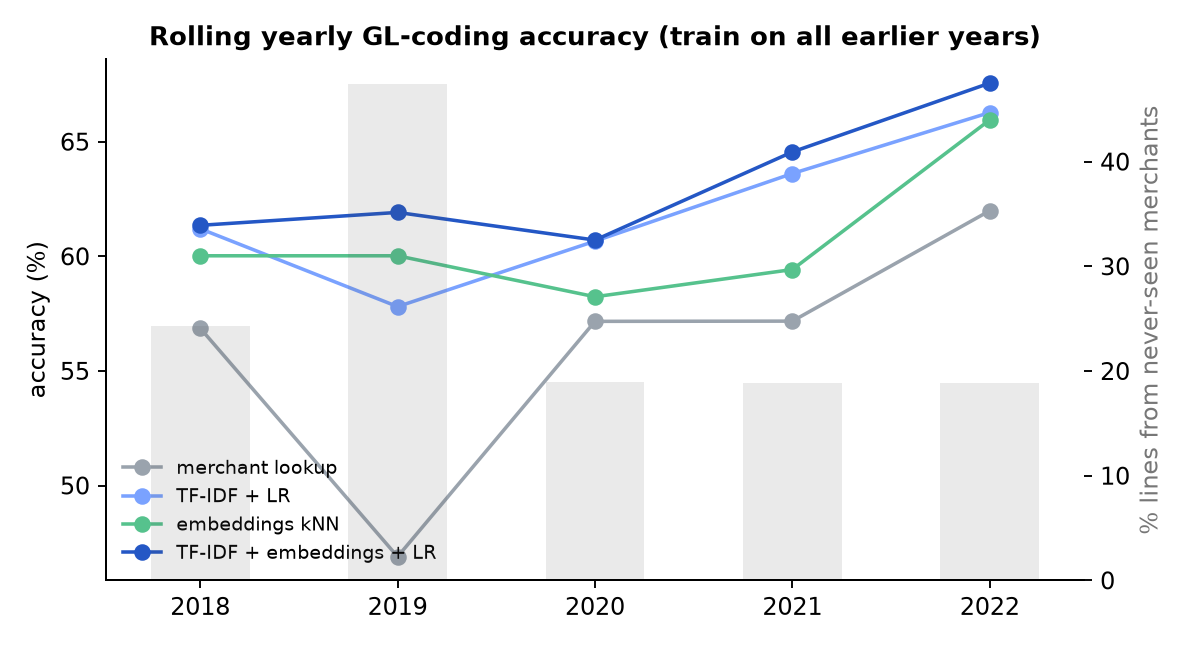
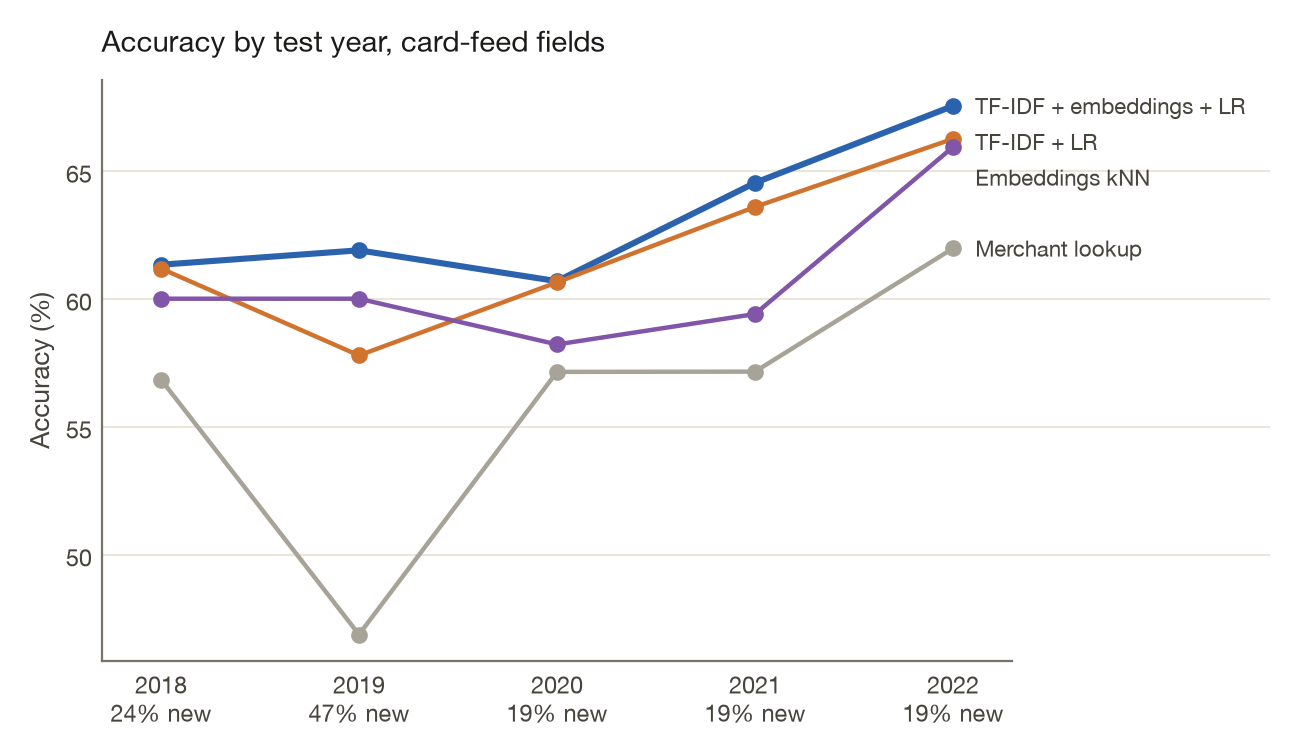
Restyle charts to match the project pages
One shared chart style (chartstyle.py): sans labels like the page tables, plain
left-aligned titles, a light horizontal grid, direct labels where lines end, and a
four-colour set that passes a colour-blind separation check. Charts regenerated
from the committed results; no numbers changed.

diff --git a/site/index.html b/site/index.html
@@ -66,8 +66,8 @@ error broke it in 10/10 seeds.</li>
 platform sees: the merchant string, the cardholder's department and service, and the amount.</p>
 <div class="tbl wide"><p class=cap><b>Table 1.</b> Ledger-account accuracy from card-feed fields, 11,756 test lines.</p><div class=scroll><table><thead><tr><th>Model (card-feed signals only)</th><th class=n>Accuracy</th><th class=n>95% CI</th><th class=n>Top-3</th><th class=n>Accuracy on new merchants</th><th class=n>Macro-F1</th></tr></thead><tbody><tr><td>Majority class</td><td class=n>17.0%</td><td class=n>16.3%–17.6%</td><td class=n>–</td><td class=n>11.4%</td><td class=n>0.019</td></tr><tr><td>Merchant → account lookup</td><td class=n>54.5%</td><td class=n>53.6%–55.4%</td><td class=n>–</td><td class=n>15.8%</td><td class=n>0.313</td></tr><tr><td>Local embeddings, kNN</td><td class=n>60.1%</td><td class=n>59.2%–61.0%</td><td class=n>78.4%</td><td class=n>37.3%</td><td class=n>0.339</td></tr><tr><td>Char TF-IDF + logistic regression</td><td class=n>60.9%</td><td class=n>60.0%–61.8%</td><td class=n>80.7%</td><td class=n>34.6%</td><td class=n>0.354</td></tr><tr><td>Local embeddings + logistic regression</td><td class=n>61.3%</td><td class=n>60.4%–62.2%</td><td class=n>82.5%</td><td class=n>38.9%</td><td class=n>0.366</td></tr><tr><td><strong>TF-IDF + embeddings + logistic regression</strong></td><td class=n>62.4%</td><td class=n>61.5%–63.3%</td><td class=n>82.9%</td><td class=n>40.7%</td><td class=n>0.379</td></tr></tbody></table></div></div>
 <figure class=narrow><img src="accuracy_by_year.png" alt="Accuracy by test year for four models, 2018 to 2022; the combined model is highest in every year.">
-<figcaption><b>Figure 1.</b> Accuracy by test year. Grey bars, on the right-hand scale, are the share of lines from merchants the
-model had never seen.</figcaption></figure>
+<figcaption><b>Figure 1.</b> Accuracy by test year. Under each year is the share of lines from merchants the model had
+never seen.</figcaption></figure>
 
 <h2>The gate on real data, month by month</h2>
 <p>The agent then ran live for the final 20 months (3,826 lines). Each month it was refit on earlier data,
@@ -85,8 +85,6 @@ very high; with the upstream category it falls under budget much sooner.</figcap
 <p>Expense-policy decisions (approve, reject or send for review, citing the policy section) have no public labels, so this part
 uses a documented generator with planted ground truth. Every assumption in it is varied in Table 5.</p>
 <div class="tbl wide"><p class=cap><b>Table 3.</b> Live months, mean ± standard deviation across seeds, 1% error budget.</p><div class=scroll><table><thead><tr><th>Autonomy policy (mean ± sd over 10 seeds)</th><th class=n>Auto-actioned</th><th class=n>Error on auto-actions</th><th class=n>Seeds over the 1% budget</th><th class=n>Policy leakage</th><th class=n>Total cost</th></tr></thead><tbody><tr><td>Trust the rules engine everywhere</td><td class=n>88.7% ± 0.5%</td><td class=n>5.36% ± 0.37%</td><td class=n>10/10</td><td class=n>$24,270 ± $4,382</td><td class=n>$30,542</td></tr><tr><td>Thresholds learned from reviewer history</td><td class=n>80.4% ± 1.6%</td><td class=n>0.97% ± 0.38%</td><td class=n>6/10</td><td class=n>$6,612 ± $3,529</td><td class=n>$10,475</td></tr><tr><td>Audited gold, point-estimate threshold</td><td class=n>84.7% ± 0.7%</td><td class=n>1.44% ± 0.23%</td><td class=n>10/10</td><td class=n>$11,087 ± $2,772</td><td class=n>$14,197</td></tr><tr><td>+ Wilson upper bound</td><td class=n>75.1% ± 8.7%</td><td class=n>0.68% ± 0.31%</td><td class=n>2/10</td><td class=n>$4,055 ± $2,274</td><td class=n>$8,985</td></tr><tr><td>+ novelty guard</td><td class=n>71.8% ± 7.3%</td><td class=n>0.45% ± 0.14%</td><td class=n>0/10</td><td class=n>$3,955 ± $1,697</td><td class=n>$9,513</td></tr><tr><td><strong>+ value tiers = earned autonomy</strong></td><td class=n>62.3% ± 11.1%</td><td class=n>0.45% ± 0.13%</td><td class=n>0/10</td><td class=n>$1,415 ± $693</td><td class=n>$8,866</td></tr></tbody></table></div></div>
-<figure class=wide><img src="rollout_by_month.png" alt="One simulated run: share of transactions auto-actioned and realised error per month for four policies.">
-<figcaption><b>Figure 4.</b> One simulated run. Policies without an upper bound auto-action more and cross the dashed 1% budget.</figcaption></figure>
 <div class="tbl wide"><p class=cap><b>Table 4.</b> Dropping one safeguard at a time.</p><div class=scroll><table><thead><tr><th>Ablation (drop one safeguard)</th><th class=n>Auto-actioned</th><th class=n>Error on auto-actions</th><th class=n>Policy leakage</th></tr></thead><tbody><tr><td>Full policy</td><td class=n>62.3%</td><td class=n>0.45%</td><td class=n>$1,415</td></tr><tr><td>− Wilson bound (point estimate)</td><td class=n>77.3%</td><td class=n>0.69%</td><td class=n>$4,516</td></tr><tr><td>− novelty guard</td><td class=n>65.7%</td><td class=n>0.72%</td><td class=n>$2,387</td></tr><tr><td>− value tiers</td><td class=n>71.8%</td><td class=n>0.45%</td><td class=n>$3,955</td></tr></tbody></table></div></div>
 <div class="tbl wide"><p class=cap><b>Table 5.</b> Does the conclusion survive changing the generator's assumptions?</p><div class=scroll><table><thead><tr><th>Assumption varied</th><th>Values</th><th class=n>Earned autonomy within budget</th><th class=n>Point estimate within budget</th></tr></thead><tbody><tr><td>Reviewer leniency</td><td>0.0, 0.03, 0.06, 0.1, 0.15</td><td class=n>5/5</td><td class=n>0/5</td></tr><tr><td>Memo drift rate</td><td>0.0, 0.15, 0.35, 0.5</td><td class=n>4/4</td><td class=n>1/4</td></tr><tr><td>Audits per month</td><td>100, 250, 500, 1000</td><td class=n>4/4</td><td class=n>0/4</td></tr><tr><td>Error budget</td><td>0.005, 0.01, 0.02</td><td class=n>3/3</td><td class=n>1/3</td></tr></tbody></table></div></div>
 

diff --git a/src/trustgate/realcharts.py b/src/trustgate/realcharts.py
@@ -4,13 +4,11 @@ from __future__ import annotations
 
 import json
 
-import matplotlib
+import matplotlib.pyplot as plt
+import numpy as np
 
-matplotlib.use("Agg")
-import matplotlib.pyplot as plt  # noqa: E402
-import numpy as np  # noqa: E402
-
-from .paths import RESULTS  # noqa: E402
+from . import chartstyle as cs
+from .paths import RESULTS
 
 POL = [
     ("auto_all", "Auto-post\neverything"),
@@ -19,24 +17,17 @@ POL = [
     ("wilson+novelty", "+ novelty\nguard"),
     ("wilson+novelty+tiers", "+ value tiers\n(earned)"),
 ]
-BLUE, GREY, RED = "#2457c5", "#9aa3ad", "#b4372f"
-
-
-def _style() -> None:
-    plt.rcParams.update(
-        {"font.size": 10, "axes.spines.top": False, "axes.spines.right": False, "axes.titleweight": "bold", "axes.titlesize": 11}
-    )
 
 
 def hero(auto: dict, budget: str = "0.02") -> None:
     """Same gate, two outcomes: automation granted and realised error, card-feed vs upstream."""
-    _style()
-    fig, axes = plt.subplots(1, 2, figsize=(11, 4.2), sharey=False)
+    cs.apply()
+    fig, axes = plt.subplots(1, 2, figsize=(10.5, 4), sharey=True)
     for ax, (setting, title) in zip(
         axes,
         [
-            ("card_feed", "Card-feed signals only (model ≈ {acc} accurate)"),
-            ("upstream", "With upstream procurement category (model ≈ {acc})"),
+            ("card_feed", "Card-feed fields only (model {acc} accurate)"),
+            ("upstream", "With the upstream procurement category (model {acc})"),
         ],
         strict=True,
     ):
@@ -46,64 +37,77 @@ def hero(auto: dict, budget: str = "0.02") -> None:
         autos = [b[p]["automation_rate"] * 100 for p, _ in POL]
         errs = [b[p]["auto_error_rate"] * 100 for p, _ in POL]
         over = [b[p]["months_over_budget"] for p, _ in POL]
-        bars = ax.bar(x, autos, color=[RED if o > 0 else BLUE for o in over], width=0.62)
+        bars = ax.bar(x, autos, color=[cs.FLAG if o > 0 else cs.BLUE for o in over], width=0.56)
         for xi, bar, e, o in zip(x, bars, errs, over, strict=True):
-            label = "no autonomy\ngranted" if bar.get_height() == 0 else f"{e:.1f}% err\n{o}/{s['live_months']} mo over"
-            ax.text(xi, bar.get_height() + 2, label, ha="center", va="bottom", fontsize=8, color="#333")
-        ax.set_xticks(x, [lab for _, lab in POL], fontsize=8)
+            label = "none granted" if bar.get_height() == 0 else f"{e:.1f}% wrong\nover in {o} of {s['live_months']}"
+            ax.text(xi, bar.get_height() + 2, label, ha="center", va="bottom", fontsize=7.5, color=cs.INK2)
+        ax.set_xticks(x, [lab for _, lab in POL])
+        ax.tick_params(axis="x", length=0)
         ax.set_ylim(0, 118)
-        ax.set_ylabel("% of real card lines auto-posted")
+        ax.set_yticks(range(0, 101, 25))
         ax.set_title(title.format(acc=f"{s['model_accuracy_live']:.0%}"))
-    fig.suptitle(
-        f"Same autonomy gate, real council bookings, {float(budget):.0%} error budget, {auto['settings']['upstream']['live_months']} live months"
-        "  ·  red = broke the budget in at least one month",
-        fontsize=10,
-        color="#444",
+    axes[0].set_ylabel("Live lines auto-posted (%)")
+    fig.text(
+        0.0,
+        -0.02,
+        f"{float(budget):.0%} error budget, {auto['settings']['upstream']['live_months']} live months. "
+        "Red bars broke the budget in at least one month.",
+        fontsize=8.5,
+        color=cs.MUTED,
     )
     fig.tight_layout()
-    fig.savefig(RESULTS / "real" / "hero.png", dpi=170)
+    fig.savefig(RESULTS / "real" / "hero.png")
     plt.close(fig)
 
 
 def per_year(bench: dict) -> None:
-    _style()
-    fig, ax = plt.subplots(figsize=(7, 3.8))
+    cs.apply()
+    fig, ax = plt.subplots(figsize=(6.6, 3.8))
     rows = [r for r in bench["benchmark"]["per_year"] if r["setting"] == "card_feed"]
-    for m, lab, c in [
-        ("merchant_lookup", "merchant lookup", GREY),
-        ("tfidf_logreg", "TF-IDF + LR", "#7aa2ff"),
-        ("embed_knn", "embeddings kNN", "#56c28d"),
-        ("tfidf+embed_logreg", "TF-IDF + embeddings + LR", BLUE),
-    ]:
+    series = [
+        ("tfidf+embed_logreg", "TF-IDF + embeddings + LR", cs.BLUE),
+        ("tfidf_logreg", "TF-IDF + LR", cs.ORANGE),
+        ("embed_knn", "Embeddings kNN", cs.PURPLE),
+        ("merchant_lookup", "Merchant lookup", cs.NEUTRAL),
+    ]
+    ends = []
+    for m, lab, c in series:
         rr = [r for r in rows if r["model"] == m]
-        ax.plot([r["year"] for r in rr], [r["accuracy"] * 100 for r in rr], marker="o", label=lab, color=c)
+        ys = [r["accuracy"] * 100 for r in rr]
+        ax.plot([r["year"] for r in rr], ys, marker="o", color=c, lw=2.2 if c == cs.BLUE else 1.6)
+        ends.append([ys[-1], lab, rr[-1]["year"]])
+    ends.sort(reverse=True)
+    for i in range(1, len(ends)):  # keep end labels at least 1.4 points apart
+        ends[i][0] = min(ends[i][0], ends[i - 1][0] - 1.4)
+    for y, lab, year in ends:
+        ax.annotate(lab, (year, y), xytext=(8, 0), textcoords="offset points", va="center", fontsize=8, color=cs.INK2)
     nm = [r for r in rows if r["model"] == "tfidf+embed_logreg"]
-    ax2 = ax.twinx()
-    ax2.bar([r["year"] for r in nm], [(1 - r["seen_merchant_share"]) * 100 for r in nm], alpha=0.12, color="#555", width=0.5)
-    ax2.set_ylabel("% lines from never-seen merchants", color="#777")
-    ax2.spines["top"].set_visible(False)
-    ax.set_ylabel("accuracy (%)")
-    ax.set_title("Rolling yearly GL-coding accuracy (train on all earlier years)")
-    ax.legend(frameon=False, fontsize=8, loc="lower left")
+    ax.set_xticks([r["year"] for r in nm], [f"{r['year']}\n{(1 - r['seen_merchant_share']):.0%} new" for r in nm])
+    ax.tick_params(axis="x", length=0)
+    ax.set_xlim(nm[0]["year"] - 0.3, nm[-1]["year"] + 1.6)
+    ax.spines["bottom"].set_bounds(nm[0]["year"] - 0.3, nm[-1]["year"] + 0.3)
+    ax.set_ylabel("Accuracy (%)")
+    ax.set_title("Accuracy by test year, card-feed fields")
     fig.tight_layout()
-    fig.savefig(RESULTS / "real" / "accuracy_by_year.png", dpi=170)
+    fig.savefig(RESULTS / "real" / "accuracy_by_year.png")
     plt.close(fig)
 
 
 def confidence(auto: dict) -> None:
-    _style()
-    fig, ax = plt.subplots(figsize=(5.4, 3.8))
-    for setting, lab, c in [("card_feed", "card feed", RED), ("upstream", "upstream", BLUE)]:
+    cs.apply()
+    fig, ax = plt.subplots(figsize=(5.6, 3.8))
+    for setting, lab, c in [("card_feed", "Card feed", cs.ORANGE), ("upstream", "Upstream", cs.BLUE)]:
         rows = auto["settings"][setting]["accuracy_by_confidence"]
-        ax.plot([r["min_conf"] for r in rows], [r["error"] * 100 for r in rows], marker="o", label=lab, color=c)
-    ax.axhline(2, ls="--", color="#777", lw=1)
-    ax.text(0.5, 2.6, "2% budget", fontsize=8, color="#555")
-    ax.set_xlabel("minimum model confidence")
-    ax.set_ylabel("error rate above threshold (%)")
+        xs, ys = [r["min_conf"] for r in rows], [r["error"] * 100 for r in rows]
+        ax.plot(xs, ys, marker="o", color=c)
+        ax.annotate(lab, (xs[0], ys[0]), xytext=(0, 8), textcoords="offset points", fontsize=8.5, color=cs.INK2)
+    ax.axhline(2, ls="--", color=cs.INK2, lw=0.9)
+    ax.annotate("2% budget", (0.62, 2), xytext=(0, -4), textcoords="offset points", va="top", fontsize=8, color=cs.INK2)
+    ax.set_xlabel("Minimum model confidence")
+    ax.set_ylabel("Error rate above that confidence (%)")
     ax.set_title("Does confidence separate right from wrong?")
-    ax.legend(frameon=False)
     fig.tight_layout()
-    fig.savefig(RESULTS / "real" / "error_vs_confidence.png", dpi=170)
+    fig.savefig(RESULTS / "real" / "error_vs_confidence.png")
     plt.close(fig)
 
 

diff --git a/src/trustgate/site.py b/src/trustgate/site.py
@@ -18,7 +18,7 @@ from .paths import DB_PATH, RESULTS, ROOT, WAREHOUSE
 
 SITE = ROOT / "site"
 REPO_URL = "https://github.com/VijayChamakuri/trustgate"
-FIGURES = ("real/hero.png", "real/accuracy_by_year.png", "real/error_vs_confidence.png", "rollout_by_month.png")
+FIGURES = ("real/hero.png", "real/accuracy_by_year.png", "real/error_vs_confidence.png")
 
 
 def _inline(s: str) -> str:
@@ -145,8 +145,8 @@ error broke it in {{point_over}} seeds.</li>
 platform sees: the merchant string, the cardholder's department and service, and the amount.</p>
 <div class="tbl wide"><p class=cap><b>Table 1.</b> Ledger-account accuracy from card-feed fields, {{gl_eval_lines}} test lines.</p>{{gl_table}}</div>
 <figure class=narrow><img src="accuracy_by_year.png" alt="Accuracy by test year for four models, 2018 to 2022; the combined model is highest in every year.">
-<figcaption><b>Figure 1.</b> Accuracy by test year. Grey bars, on the right-hand scale, are the share of lines from merchants the
-model had never seen.</figcaption></figure>
+<figcaption><b>Figure 1.</b> Accuracy by test year. Under each year is the share of lines from merchants the model had
+never seen.</figcaption></figure>
 
 <h2>The gate on real data, month by month</h2>
 <p>The agent then ran live for the final {{live_months}} months ({{live_lines}} lines). Each month it was refit on earlier data,
@@ -164,8 +164,6 @@ very high; with the upstream category it falls under budget much sooner.</figcap
 <p>Expense-policy decisions (approve, reject or send for review, citing the policy section) have no public labels, so this part
 uses a documented generator with planted ground truth. Every assumption in it is varied in Table 5.</p>
 <div class="tbl wide"><p class=cap><b>Table 3.</b> Live months, mean ± standard deviation across seeds, 1% error budget.</p>{{synthetic_table}}</div>
-<figure class=wide><img src="rollout_by_month.png" alt="One simulated run: share of transactions auto-actioned and realised error per month for four policies.">
-<figcaption><b>Figure 4.</b> One simulated run. Only the full earned-autonomy policy stays under the dashed 1% budget in every live month.</figcaption></figure>
 <div class="tbl wide"><p class=cap><b>Table 4.</b> Dropping one safeguard at a time.</p>{{ablation_table}}</div>
 <div class="tbl wide"><p class=cap><b>Table 5.</b> Does the conclusion survive changing the generator's assumptions?</p>{{sensitivity_table}}</div>
 

diff --git a/src/trustgate/chartstyle.py b/src/trustgate/chartstyle.py
@@ -1,0 +1,66 @@
+"""One chart style for the project pages, shared with TrustGate, CommitCompass and JudgeGate.
+
+Plain and quiet so the figures sit inside a written page: sans labels that match the page's tables,
+left-aligned regular-weight titles, a light horizontal grid and no box. The four series colours
+pass a colour-blind separation check (OKLab ΔE >= 14 between neighbours under protan/deutan/tritan).
+"""
+
+from __future__ import annotations
+
+import matplotlib
+
+matplotlib.use("Agg")
+import matplotlib.pyplot as plt  # noqa: E402
+from cycler import cycler  # noqa: E402
+
+INK, INK2, MUTED, GRID = "#1c1b19", "#47443e", "#77736a", "#ebe6db"
+BLUE, ORANGE, PURPLE, GREEN = "#2b62ad", "#d0732e", "#8156a8", "#2f8f5b"
+SERIES = (BLUE, ORANGE, PURPLE, GREEN)  # fixed order, never cycled
+NEUTRAL = "#a8a397"  # reference rows and baselines
+FLAG = "#a3261b"  # reserved for "broke the budget"; never a series colour
+
+RC = {
+    "figure.facecolor": "white",
+    "axes.facecolor": "white",
+    "savefig.facecolor": "white",
+    "font.family": "sans-serif",
+    "font.sans-serif": ["Helvetica Neue", "Helvetica", "Arial", "DejaVu Sans"],
+    "font.size": 9.5,
+    "axes.titlesize": 10.5,
+    "axes.titleweight": "normal",
+    "axes.titlelocation": "left",
+    "axes.titlecolor": INK,
+    "axes.titlepad": 10,
+    "axes.labelsize": 9.5,
+    "axes.labelcolor": INK2,
+    "axes.edgecolor": MUTED,
+    "axes.linewidth": 0.8,
+    "axes.spines.top": False,
+    "axes.spines.right": False,
+    "axes.grid": True,
+    "axes.grid.axis": "y",
+    "axes.axisbelow": True,
+    "axes.prop_cycle": cycler(color=list(SERIES)),
+    "grid.color": GRID,
+    "grid.linewidth": 0.8,
+    "xtick.color": MUTED,
+    "ytick.color": MUTED,
+    "xtick.labelcolor": INK2,
+    "ytick.labelcolor": INK2,
+    "xtick.labelsize": 8.5,
+    "ytick.labelsize": 8.5,
+    "ytick.major.size": 0,
+    "legend.frameon": False,
+    "legend.fontsize": 8.5,
+    "legend.labelcolor": INK2,
+    "lines.linewidth": 1.8,
+    "lines.markersize": 5,
+    "patch.linewidth": 0,
+    "savefig.dpi": 200,
+    "savefig.bbox": "tight",
+    "savefig.pad_inches": 0.12,
+}
+
+
+def apply() -> None:
+    plt.rcParams.update(RC)  # type: ignore[arg-type]  # rcParams keys are typed as literals
